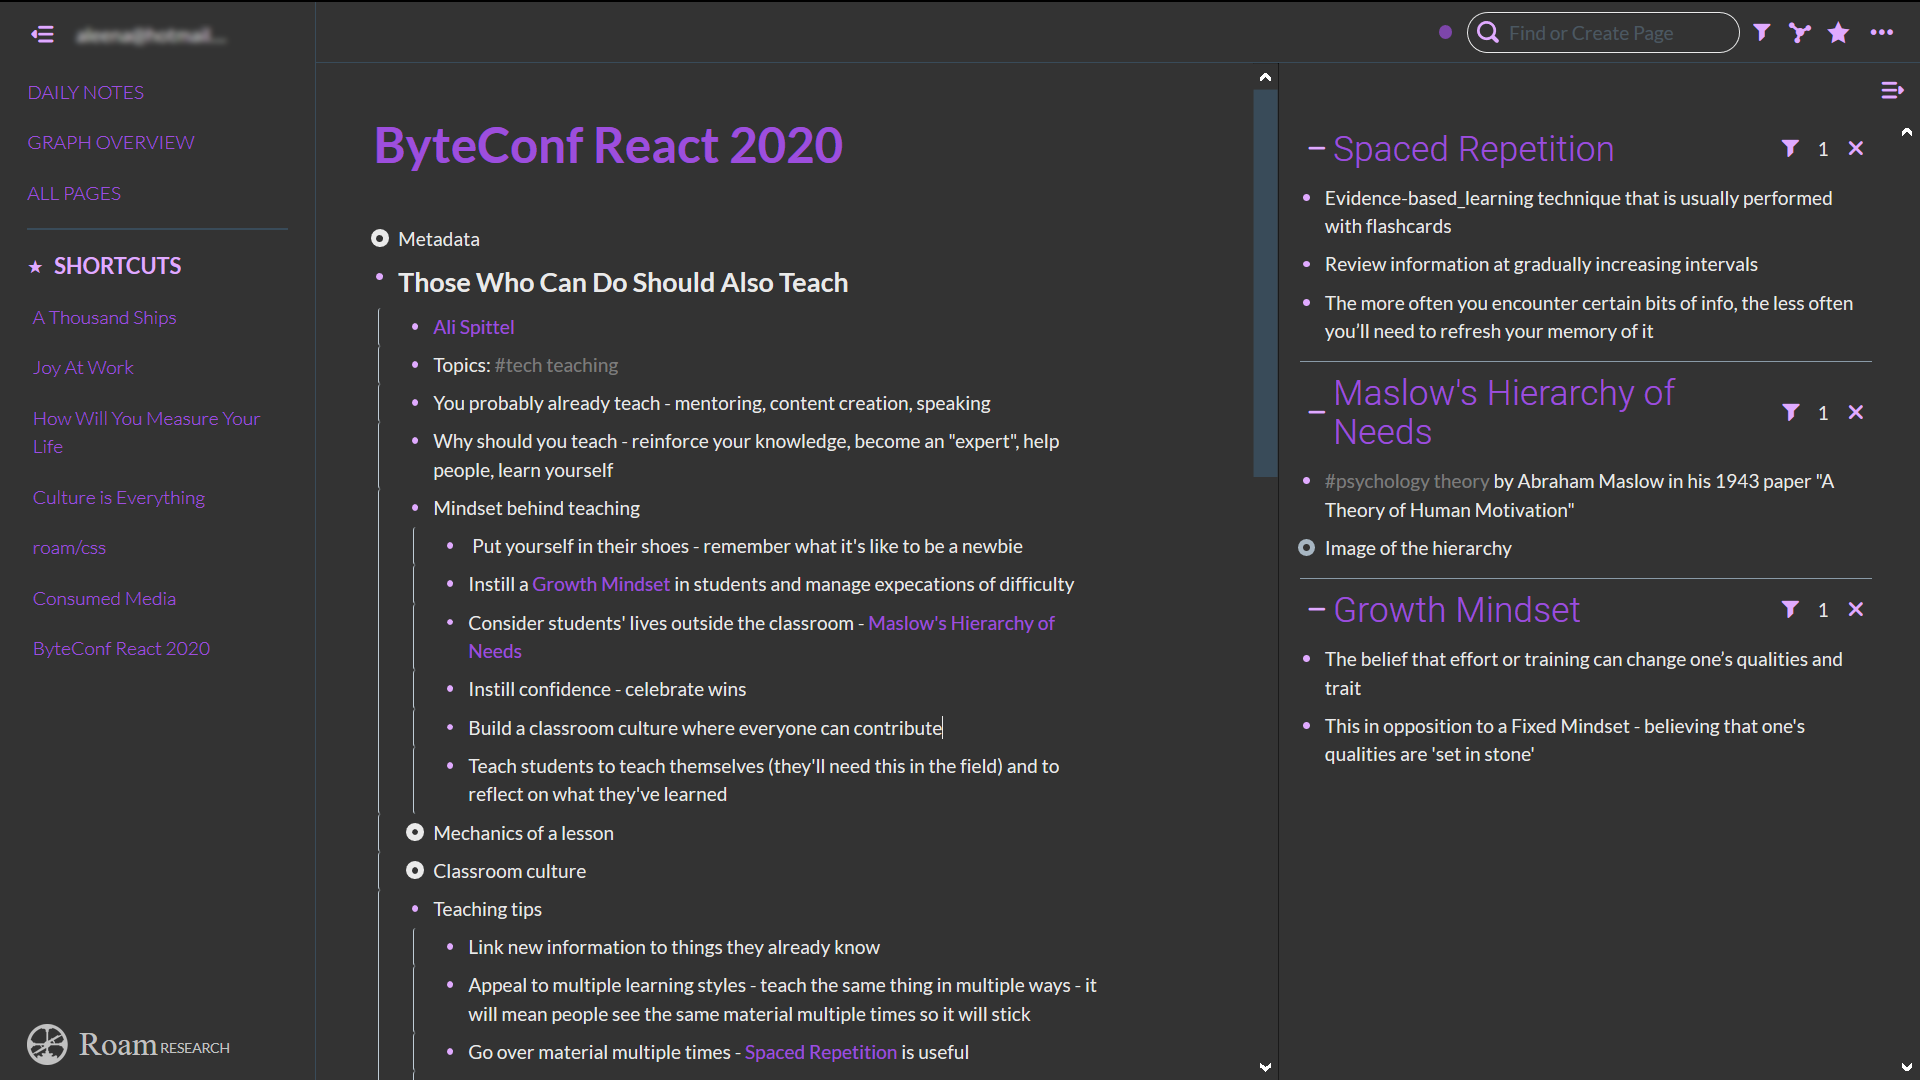
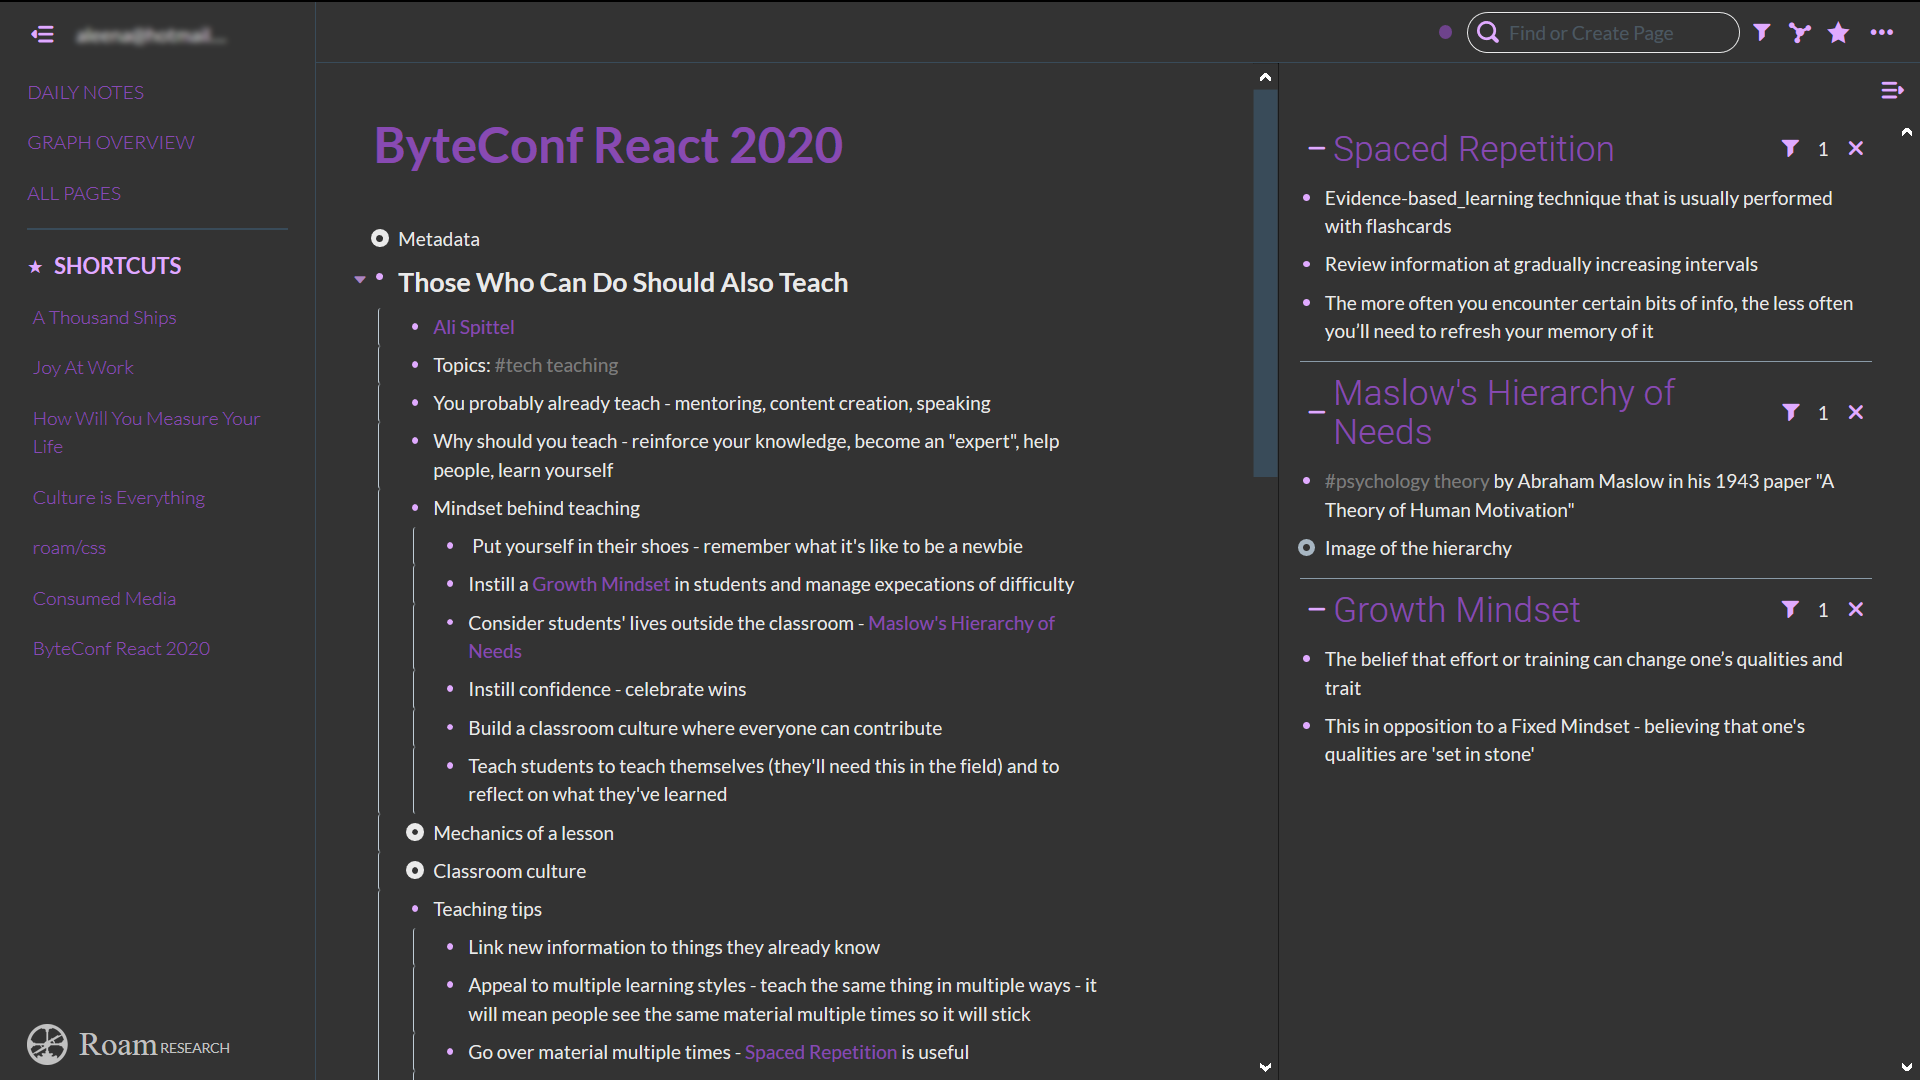
Updated lilac theme

diff --git a/lilac-dark.css b/lilac-dark.css
@@ -6,6 +6,6 @@
   --edges-colour: #394b59;
   --edges-colour-semi-transparent: rgb(57, 75, 89, 0.2);
   --contrast-colour: #EAEAEA;
-  --title-colour: #9D4EDD;
+  --title-colour: #884ab2;
   --highlight-colour-1: #E0AAFF;
 }
